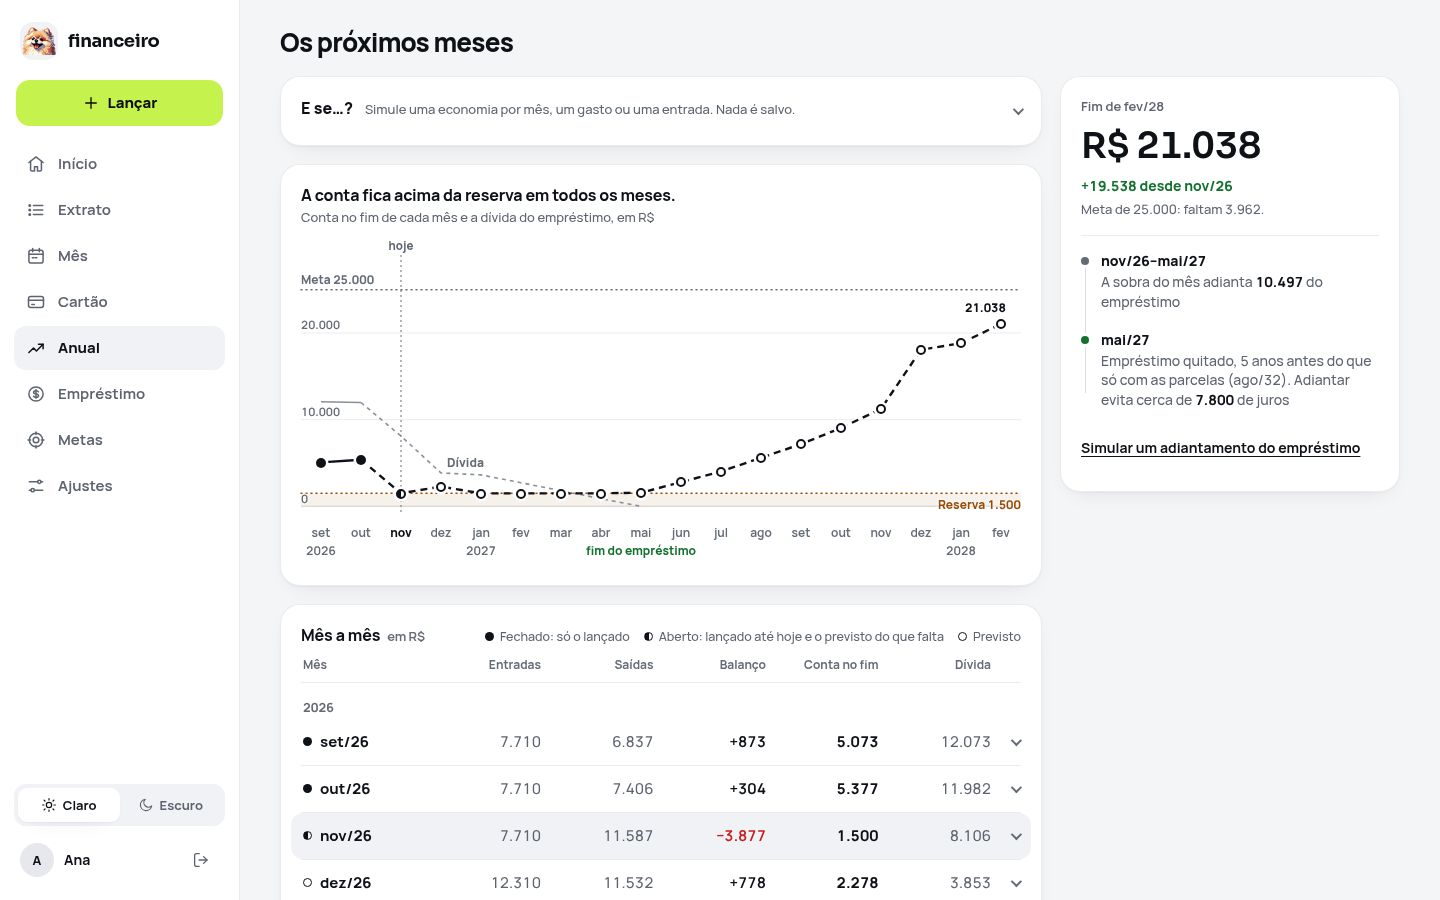
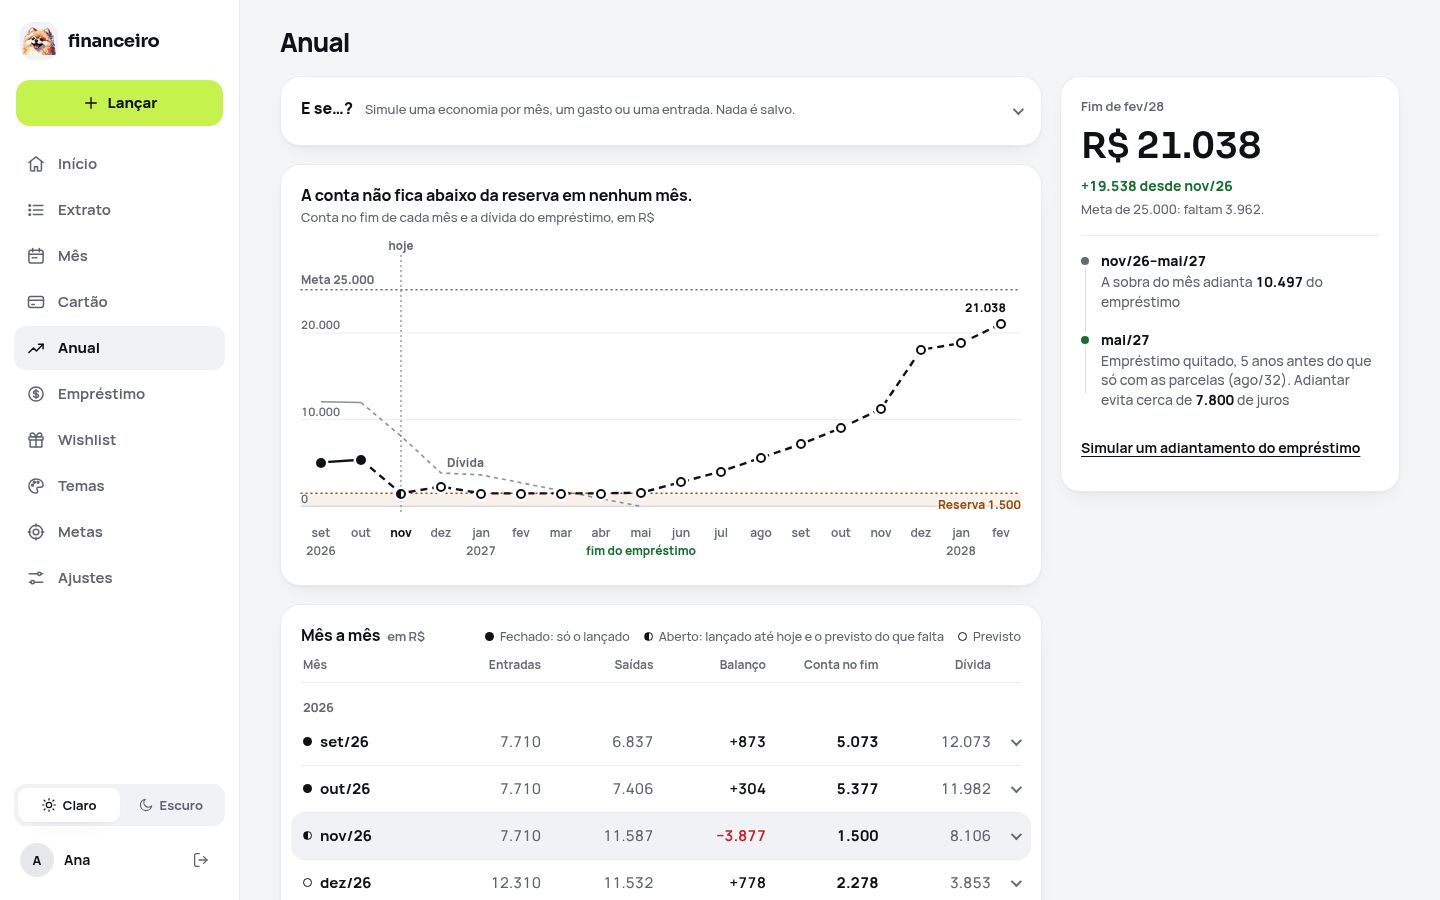
Versão 1.2.1: rótulos mais claros e previsão do fim do mês no Início e no Mês

diff --git a/public/assets/css/mes.css b/public/assets/css/mes.css
@@ -43,6 +43,7 @@ details.mes-ed > summary:hover::after, .mes-sub-titulo:hover::after,
 
 /* grupo (essenciais / não essenciais) */
 .mes-grupo + .mes-grupo { margin-top: 10px; }
+.mes-nota { margin: -4px 0 8px; color: var(--text-2); font-size: 13px; }
 .mes-sub-titulo {
     display: flex; align-items: center; gap: 10px;
     min-height: 40px; list-style: none;
@@ -136,6 +137,7 @@ details.mes-ed:target > summary { animation: mes-realce 1.6s ease-out 1; }   /* 
 .meta-top { display: flex; flex-direction: column; gap: 12px; }
 .meta-top-head { display: flex; flex-direction: column; gap: 2px; }
 .meta-top-head .rotulo { font-size: 13px; }
+.meta-renda-nota { display: block; font-size: 12px; font-weight: 500; }
 .meta-renda { font-family: var(--fn); font-size: 30px; font-weight: 600; letter-spacing: -0.03em; line-height: 1.1; }
 
 /* barra: como a renda foi usada (toque para ver as metas) */

diff --git a/public/assets/js/app.js b/public/assets/js/app.js
@@ -513,10 +513,18 @@
             setTimeout(function () { toastMsg.innerHTML = html; }, 120);
         }
     }
+    // link para uma linha dentro de um grupo recolhido do Mês: abre o grupo
+    function abrirGrupoDoLink() {
+        var alvo = location.hash.length > 1 ? document.getElementById(location.hash.slice(1)) : null;
+        var grupo = alvo ? alvo.closest('details.mes-sem-mov') : null;
+        if (grupo) { grupo.open = true; alvo.scrollIntoView({ block: 'center' }); }
+    }
     if (document.readyState === 'loading') {
         document.addEventListener('DOMContentLoaded', iniciar);
+        document.addEventListener('DOMContentLoaded', abrirGrupoDoLink);
     } else {
         iniciar();
+        abrirGrupoDoLink();
     }
     // voltar pelo histórico (bfcache) restaura o radio marcado sem disparar change
     window.addEventListener('pageshow', syncTodosQuando);

diff --git a/public/assets/css/style.css b/public/assets/css/style.css
@@ -728,6 +728,8 @@ details.dobra > summary:hover::after { border-color: var(--text); }
 .saldo.is-acima .saldo-medidor i { background: var(--cofre-ok); }
 .saldo-rod { display: flex; justify-content: space-between; gap: 12px; margin-top: 9px; color: var(--cofre-txt-2); font-size: 13px; white-space: normal; }
 .saldo-rod b { color: var(--cofre-txt); font-weight: 700; }
+.saldo-prev { margin-top: 8px; color: var(--cofre-txt-2); font-size: 13px; }
+.saldo-prev b { color: var(--cofre-txt); font-weight: 700; }
 .saldo-duas { display: grid; grid-template-columns: 1fr 1fr; gap: 8px; }
 .saldo-duas > div { padding: 10px 12px; border-radius: 14px; background: rgba(255, 255, 255, .06); }
 .saldo-duas small { display: block; color: var(--cofre-txt-2); font-size: 12.5px; font-weight: 650; }

diff --git a/public/assets/css/cartao.css b/public/assets/css/cartao.css
@@ -94,7 +94,7 @@
 .ct-parc-l1 { font-weight: 700; }
 .ct-parc-l1 span:first-child { overflow: hidden; text-overflow: ellipsis; white-space: nowrap; }
 .ct-parc .trilho { margin: 4px 0 2px; }
-.ct-parc-l3 { color: var(--text-2); font-size: 12.5px; }
+.ct-parc-l3 { flex-wrap: wrap; color: var(--text-2); font-size: 12.5px; }
 .ct-dados { display: grid; grid-template-columns: 1fr 1fr; gap: 10px 16px; margin-top: 4px; }
 .ct-dados dt { color: var(--text-2); font-size: 12.5px; font-weight: 600; }
 .ct-dados dd { font-weight: 750; }

diff --git a/src/Views/mes/index.php b/src/Views/mes/index.php
@@ -75,6 +75,11 @@ $sortDesc($diaEss, $valorDia);
 $sortDesc($diaNaoEss, $valorDia);
 $diaZerEss    = array_values(array_filter($diaZeradas, static fn($l) => $l['essencial']));
 $diaZerNaoEss = array_values(array_filter($diaZeradas, static fn($l) => !$l['essencial']));
+// zeradas com meta continuam no grupo (mostram a meta); as sem meta ficam recolhidas em "Sem movimento"
+$temMeta       = static fn(array $l): bool => (float) ($l['meta'] ?? 0.0) > 0.004;
+$comMetaEss    = array_values(array_filter($diaZerEss, $temMeta));
+$comMetaNaoEss = array_values(array_filter($diaZerNaoEss, $temMeta));
+$semMov        = array_values(array_filter($diaZeradas, static fn($l) => !$temMeta($l)));
 
 $totalEss    = array_sum(array_map($valorConta, $essContas)) + array_sum(array_map($valorDia, $diaEss));
 $totalNaoEss = array_sum(array_map($valorConta, $naoEssContas)) + array_sum(array_map($valorDia, $diaNaoEss));
@@ -319,7 +324,7 @@ $linhaLeitura = static function (array $l, float $v): void { ?>
     <div class="mes-grade">
     <div class="mes-col mes-esq">
 
-        <!-- resumo: o saldo no cartão escuro (o estado vem na etiqueta), entradas e saídas embaixo -->
+        <!-- resumo: o saldo no cartão escuro (o estado vem na etiqueta) e a previsão para o fim do mês -->
         <?php
         $txtConta  = num($emConta);
         $virgula   = strrpos($txtConta, ',');
@@ -329,18 +334,18 @@ $linhaLeitura = static function (array $l, float $v): void { ?>
         <section class="saldo mes-resumo <?= $emConta < -0.004 ? 'is-vermelho' : $nivel ?>" aria-labelledby="mes-res-t">
             <div class="saldo-l1"><h2 id="mes-res-t"><?= substr((string) $hoje, 0, 7) === substr($mes, 0, 7) ? 'Em conta hoje' : 'Conta no fim do mês' ?></h2><span class="saldo-estado num"><?= e($estadoTxt) ?></span></div>
             <p class="saldo-v num"><small>R$</small><?= e($virgula === false ? $txtConta : substr($txtConta, 0, $virgula)) ?><span><?= e($virgula === false ? '' : substr($txtConta, $virgula)) ?></span></p>
-            <div class="saldo-duas num">
-                <div><small>Entradas</small><b class="saldo-pos"><?= e(num($totalEntrou)) ?></b></div>
-                <div><small>Saídas</small><b class="saldo-neg"><?= e(num($totalSaidas)) ?></b></div>
-            </div>
+            <?php if ($estado === 'aberto' && isset($linha['fica_na_conta'])): ?>
+                <p class="saldo-prev num" data-previsao-fim>Previsão para o fim de <?= e(mesExtenso($mes)) ?>: <b><?= e(num((float) $linha['fica_na_conta'], 0)) ?></b></p>
+            <?php endif; ?>
         </section>
 
         <!-- entradas -->
         <section class="card mes-sec" id="entradas">
             <div class="card-head">
-                <h2 class="titulo">Entradas</h2>
+                <h2 class="titulo"><?= $estado === 'real' ? 'Entradas' : 'Entradas previstas' ?></h2>
                 <span class="card-acao num pos"><?= e(num($totalEntrou)) ?></span>
             </div>
+            <?php if ($estado !== 'real' && $consignado > 0.004): ?><p class="mes-nota num"><?= e(num($consignado)) ?> descontados em folha</p><?php endif; ?>
             <?php if ($editavel): ?>
                 <div class="mes-linhas"><?php foreach ($entradas as $l) { $linhaEntrada($l); } ?></div>
             <?php else: ?>
@@ -365,19 +370,28 @@ $linhaLeitura = static function (array $l, float $v): void { ?>
                     <div class="mes-linhas">
                         <?php foreach ($essContas as $l) { $linhaConta($l); } ?>
                         <?php foreach ($diaEss as $l) { $linhaDia($l); } ?>
-                        <?php foreach ($diaZerEss as $l) { $linhaDia($l); } ?>
+                        <?php foreach ($comMetaEss as $l) { $linhaDia($l); } ?>
                     </div>
                 </details>
 
                 <?php
                 $naoEss = array_merge($naoEssContas, $diaNaoEss);
                 usort($naoEss, static fn($a, $b) => ($b['grupo'] === 'Dia a dia' ? $valorDia($b) : $valorConta($b)) <=> ($a['grupo'] === 'Dia a dia' ? $valorDia($a) : $valorConta($a)));
-                $naoEss = array_merge($naoEss, $diaZerNaoEss);
+                $naoEss = array_merge($naoEss, $comMetaNaoEss);
                 if ($naoEss !== []): ?>
                     <details class="mes-grupo" open>
                         <summary class="mes-sub-titulo">Não essenciais <span class="num"><?= e(num($totalNaoEss, 0)) ?></span></summary>
                         <div class="mes-linhas">
                             <?php foreach ($naoEss as $l) { $l['grupo'] === 'Dia a dia' ? $linhaDia($l) : $linhaConta($l); } ?>
+                        </div>
+                    </details>
+                <?php endif; ?>
+
+                <?php if ($semMov !== []): ?>
+                    <details class="mes-grupo mes-sem-mov"<?= array_filter($semMov, $erroDe) !== [] ? ' open' : '' ?>>
+                        <summary class="mes-sub-titulo">Sem movimento <span class="num">(<?= count($semMov) ?>)</span></summary>
+                        <div class="mes-linhas">
+                            <?php foreach ($semMov as $l) { $linhaDia($l); } ?>
                         </div>
                     </details>
                 <?php endif; ?>

diff --git a/tests/run.php b/tests/run.php
@@ -134,6 +134,30 @@ foreach ($telas as [$path, $cls, $metodo, $marcador]) {
     }
 }
 
+// ---- 3b. textos da auditoria: rótulos que não enganam e a previsão igual à do Anual
+$pagina = static function (string $cls, string $metodo, string $path): string {
+    $_SERVER['REQUEST_URI'] = $path;
+    $_GET = [];
+    ob_start();
+    (new $cls())->$metodo();
+    return (string) ob_get_clean();
+};
+$htmlIni = $pagina(DashboardController::class, 'index', '/');
+$htmlMes = $pagina(MesController::class, 'index', '/mes');
+$htmlAno = $pagina(FuturoController::class, 'index', '/futuro');
+$htmlMeta = $pagina(MetaController::class, 'index', '/meta');
+$check('Metas não chama o disponível de renda', !str_contains($htmlMeta, 'Renda do mês') && str_contains($htmlMeta, 'Disponível no mês'));
+$check('Anual não diz "acima da reserva em todos os meses"', !str_contains($htmlAno, 'acima da reserva em todos'));
+$check('Início sem o selo "Acima da reserva"', !str_contains($htmlIni, 'Acima da reserva'));
+$mesPrevT = MesModel::referencia(date('Y-m-d'));
+$linhaPrevT = MotorFinanceiro::linhaDoMes($mesPrevT);
+if ($linhaPrevT !== null && $linhaPrevT['situacao'] !== 'REAL') {
+    $valPrevT = num((float) $linhaPrevT['fica_na_conta'], 0);
+    $tagPrev = 'data-previsao-fim>Previsão para o fim de ' . mesExtenso($mesPrevT) . ': <b>' . $valPrevT . '</b>';
+    $check('Início: previsão do fim do mês vem do mesmo plano do Anual', str_contains($htmlIni, $tagPrev) && str_contains($htmlAno, $valPrevT));
+    $check('Mês: previsão do fim do mês igual à do Início', str_contains($htmlMes, $tagPrev));
+}
+
 // ---- 4. meta: definir uma meta pinta a barra no mês (verde/vermelho), sem sujar o banco
 $mesMeta = null;
 $catMeta = null;
@@ -486,7 +510,7 @@ if ($catDia > 0 && count($prevMeses) >= 3) {
 }
 $htmlFu = $render(FuturoController::class, 'index', []);
 $check('anual: resumo, conclusão no título do gráfico, previsão tracejada e total por ano', str_contains($htmlFu, 'class="card fu-res"')
-    && str_contains($htmlFu, 'id="fu-graf-t">A conta fica') && str_contains($htmlFu, 'class="fu-linha is-prev"')
+    && str_contains($htmlFu, 'id="fu-graf-t">A conta ') && str_contains($htmlFu, 'class="fu-linha is-prev"')
     && str_contains($htmlFu, 'class="fu-cols fu-total num"') && !str_contains($htmlFu, 'fu-area'));
 $check('anual: o que mudou no mês, do maior efeito para o menor', $mu['2027-01-01'] === []
     && ($mu['2027-02-01'][0]['nome'] ?? '') === 'IPVA' && abs($mu['2027-02-01'][0]['efeito'] + 1200.0) < 0.01
@@ -670,9 +694,9 @@ $check('dados do empréstimo: recusa parcela zero, número de parcelas quebrado 
 $check('dados do empréstimo: Ajustes não grava mais esses campos', array_diff(AjusteModel::DO_EMPRESTIMO, AjusteModel::EDITAVEIS) === []
     && AjustesController::lerValores(['juros_mes' => '5'], array_diff(AjusteModel::EDITAVEIS, AjusteModel::DO_EMPRESTIMO))['valores'] === []);
 $htmlAj = $render(AjustesController::class, 'index', []);
-$check('dados do empréstimo: saíram de Ajustes, que avisa onde estão', !str_contains($htmlAj, 'valores[juros_mes]') && !str_contains($htmlAj, 'valores[parcela_mensal]')
+$check('dados do empréstimo: saíram de Ajustes', !str_contains($htmlAj, 'valores[juros_mes]') && !str_contains($htmlAj, 'valores[parcela_mensal]')
     && !str_contains($htmlAj, 'valores[n_parcelas]') && !str_contains($htmlAj, 'valores[consignado_inicio]') && !str_contains($htmlAj, 'valores[recebido_emprestimo]')
-    && str_contains($htmlAj, 'valores[reserva_minima]') && str_contains($htmlAj, 'valores[saldo_ini]') && str_contains($htmlAj, '/emprestimo?dados=1#emp-dados'));
+    && str_contains($htmlAj, 'valores[reserva_minima]') && str_contains($htmlAj, 'valores[saldo_ini]') && !str_contains($htmlAj, 'agora ficam'));
 $check('dados do empréstimo: estão na aba, mesmo com a dívida quitada', str_contains($htmlEmp, 'action="/emprestimo/dados"') && str_contains($htmlEmp, 'valores[juros_mes]') && str_contains($htmlEmp, 'valores[saldo_devedor]') && str_contains($htmlEmp, 'valores[saldo_devedor_mes]')
     && str_contains($htmlEmp, 'valores[parcela_mensal]') && str_contains($htmlEmp, 'valores[n_parcelas]') && str_contains($htmlEmp, 'valores[consignado_inicio]') && str_contains($htmlEmp, 'valores[recebido_emprestimo]'));
 $dadosSaldo = array_replace_recursive($dadosEmp, ['aj' => ['saldo_devedor' => 500.0, 'saldo_devedor_mes' => 203002.0]]);

diff --git a/src/Views/dashboard/index.php b/src/Views/dashboard/index.php
@@ -40,7 +40,7 @@ $diaSem    = $diasSem[(int) date('w', $tsHoje)];
 $dataLonga = mb_strtoupper(mb_substr($diaSem, 0, 1)) . mb_substr($diaSem, 1) . ', ' . (int) date('j', $tsHoje) . ' de ' . mesExtenso($hoje);
 
 // cartão do saldo: estado e barra até a reserva
-$estadoSaldo = $vermelho ? 'No vermelho' : ($abaixo ? 'Abaixo da reserva' : 'Acima da reserva');
+$estadoSaldo = $vermelho ? 'No vermelho' : ($abaixo ? 'Abaixo da reserva' : '');
 $clsSaldo    = $vermelho ? 'is-vermelho' : ($abaixo ? 'is-abaixo' : 'is-acima');
 $pReserva    = $reserva > 0.004 ? max(0.0, min(1.0, $conta / $reserva)) * 100 : ($conta >= 0 ? 100.0 : 0.0);
 $txtConta    = num($conta);
@@ -84,7 +84,7 @@ $quandoFoi   = static function (string $data) use ($hoje): string {
             <div class="saldo-l1">
                 <h2 id="saldo-t">Em conta hoje</h2>
                 <button type="button" class="saldo-olho" data-ocultar aria-pressed="false" aria-label="esconder valores"><?= svgIcon('eye', 18, 'olho-aberto') ?><?= svgIcon('eye-off', 18, 'olho-fechado') ?></button>
-                <span class="saldo-estado"><?= e($estadoSaldo) ?></span>
+                <?php if ($estadoSaldo !== ''): ?><span class="saldo-estado"><?= e($estadoSaldo) ?></span><?php endif; ?>
             </div>
             <p class="saldo-v num"><small>R$</small><?= e($contaInt) ?><span><?= e($contaCent) ?></span></p>
             <div class="saldo-medidor" aria-hidden="true"><i style="--p:<?= e(number_format($pReserva, 1, '.', '')) ?>%"></i></div>
@@ -92,6 +92,9 @@ $quandoFoi   = static function (string $data) use ($hoje): string {
                 <span><?php if ($vermelho): ?>Faltam <b><?= e(num(abs($conta))) ?></b> para zerar<?php elseif ($abaixo): ?>Faltam <b><?= e(num(abs($dif))) ?></b> para a reserva<?php else: ?><b><?= e(num($dif)) ?></b> acima da reserva<?php endif; ?></span>
                 <span>Reserva <b><?= e(num($reserva, 0)) ?></b></span>
             </p>
+            <?php if ($previsaoFim !== null): ?>
+                <p class="saldo-prev num" data-previsao-fim>Previsão para o fim de <?= e(mesExtenso($mesPrevisao)) ?>: <b><?= e(num($previsaoFim, 0)) ?></b></p>
+            <?php endif; ?>
         </section>
 
         <!-- o mês em três linhas; o detalhe fica dobrado -->
@@ -207,7 +210,7 @@ $quandoFoi   = static function (string $data) use ($hoje): string {
                         <li>
                             <a class="lista-i" href="/lancamentos/<?= (int) $r['id'] ?>/editar?volta=%2F">
                                 <?= iconeCategoria((int) $r['categoria_id'], (string) $r['categoria_nome'], (string) ($r['grupo'] ?? ''), 40) ?>
-                                <span class="lista-n"><b><?= e($desc !== '' ? $desc : nomeCurto($cat)) ?></b><small><?= e(nomeCurto($cat)) ?></small></span>
+                                <span class="lista-n"><b><?= e($desc !== '' ? $desc : nomeCurto($cat)) ?></b><?php if ($desc !== '' && mb_strtolower($desc) !== mb_strtolower(nomeCurto($cat))): ?><small><?= e(nomeCurto($cat)) ?></small><?php endif; ?></span>
                                 <span class="lista-v"><b class="num <?= $cls ?>"><?= e($txt) ?></b><small><?= e($quandoFoi((string) $r['data'])) ?></small></span>
                             </a>
                         </li>

diff --git a/src/Views/lancamentos/index.php b/src/Views/lancamentos/index.php
@@ -210,7 +210,7 @@ $catAtual = $categoria !== null ? (int) $categoria['id'] : 0;
                             <?php $desc = trim((string) $r['descricao']); $rot = $desc !== '' ? $desc : nomeCurto($cat); ?>
                             <li><a class="lista-i ex-linha" href="/lancamentos/<?= (int) $r['id'] ?>/editar?volta=<?= e($voltaEnc) ?>"<?= $i === $limite - 60 && $i > 0 ? ' id="ex-r' . $i . '"' : '' ?>>
                                 <?= iconeCategoria((int) $r['categoria_id'], (string) $r['categoria_nome'], (string) $r['grupo'], 40) ?>
-                                <span class="lista-n"><b><?= e($rot) ?></b><small><?= e(nomeCurto($cat)) ?><?php if (!$agrupado): ?>, <?= e($semana[(int) date('w', strtotime($r['data']))] . ' ' . diaMes($r['data'])) ?><?php endif; ?></small></span>
+                                <span class="lista-n"><b><?= e($rot) ?></b><?php $mesmoNome = mb_strtolower($rot) === mb_strtolower(nomeCurto($cat)); $quando = $agrupado ? '' : $semana[(int) date('w', strtotime($r['data']))] . ' ' . diaMes($r['data']); $sub = implode(', ', array_filter([$mesmoNome ? '' : nomeCurto($cat), $quando])); ?><?php if ($sub !== ''): ?><small><?= e($sub) ?></small><?php endif; ?></span>
                                 <span class="lista-v"><b class="num <?= $cls ?>"><?= e($txt) ?></b><?php if ($r['data'] > $hoje): ?><small class="ex-agendado">agendado</small><?php endif; ?></span>
                             </a></li>
                             <?php $i++; ?>

diff --git a/src/Views/partials/mes_nav.php b/src/Views/partials/mes_nav.php
@@ -5,7 +5,7 @@
  *                                      'href' => '/mes?mes=', 'sufixo' => '#contas']);
  * Variáveis: $mes (AAAA-MM-01), $meses (linhas {mes, situacao} em ordem), $href (prefixo do link,
  * recebe o mês no fim), $sufixo (opcional, ex. '#contas'), $hoje (opcional, Y-m-d),
- * $anual (opcional: true põe "Visão anual" no fim do painel; no celular é o caminho para o Anual).
+ * $anual (opcional: true põe "Anual" no fim do painel; no celular é o caminho para o Anual).
  * O mês por extenso é o botão de um seletor (details.menu, funciona sem JS): abre um painel com
  * todos os meses por ano, cada um com o ponto do estado. Setas redondas à direita.
  * O h1 da tela fica escondido para leitor de tela (o botão mostra o mesmo texto).
@@ -70,7 +70,7 @@ foreach ($lista as $k) {
                 <span class="leg-previsto"><i class="ponto-estado"></i>Previsto</span>
             </p>
             <?php if ($anual): ?>
-                <a class="mes-picker-anual" href="/futuro"><?= svgIcon('trend', 18) ?><span>Visão anual</span><?= svgIcon('chevron', 16) ?></a>
+                <a class="mes-picker-anual" href="/futuro"><?= svgIcon('trend', 18) ?><span>Anual</span><?= svgIcon('chevron', 16) ?></a>
             <?php endif; ?>
         </div>
     </details>

diff --git a/src/Views/cartao/index.php b/src/Views/cartao/index.php
@@ -166,7 +166,7 @@ $hrefLancar = '/lancar?pagou=cartao&volta=' . rawurlencode('/cartao');
                             <?= iconeCategoria((int) ($c['categoria_id'] ?? 0), (string) ($c['categoria_nome'] ?? $c['descricao']), (string) ($c['categoria_grupo'] ?? ''), 40) ?>
                             <span class="ct-parc-l1"><span><?= e($c['descricao']) ?></span><span class="num"><?= e(num((float) $pc['valor'])) ?></span></span>
                             <span class="trilho" aria-hidden="true"><i style="--w:<?= (int) round(($pc['agora'] - 1) / $pc['n'] * 100) ?>%"></i></span>
-                            <span class="ct-parc-l3 num"><span><?= $pc['comeca'] > $aberta ? 'começa em ' . e(monthLabel($pc['comeca'])) : $pc['agora'] . ' de ' . $pc['n'] . ' · faltam ' . $pc['faltam'] ?></span><span>última em <?= e(monthLabel($pc['ultima'])) ?></span></span>
+                            <span class="ct-parc-l3 num"><span><?= $pc['comeca'] > $aberta ? 'começa em ' . e(monthLabel($pc['comeca'])) : $pc['agora'] . ' de ' . $pc['n'] . ' · ' . $pc['faltam'] . ' a pagar, contando a aberta' ?></span><span>última em <?= e(monthLabel($pc['ultima'])) ?></span></span>
                         </a></li>
                     <?php endforeach; ?>
                 </ul>

diff --git a/src/Views/meta/index.php b/src/Views/meta/index.php
@@ -91,12 +91,12 @@ $temAdd = $addEss !== [] || $addNao !== [];
     <!-- orçamento do mês: dê função a cada real -->
     <section class="card meta-top">
         <div class="meta-top-head">
-            <span class="rotulo">Renda do mês</span>
+            <span class="rotulo">Disponível no mês <small class="meta-renda-nota">entradas + sobra anterior</small></span>
             <span class="meta-renda num"><?= e(num($renda, 0)) ?></span>
         </div>
 
         <?php if ($temBar): ?>
-            <button type="button" class="meta-aloc" data-meta-aloc aria-expanded="false" aria-label="Como a renda foi usada. Toque para ver cada meta.">
+            <button type="button" class="meta-aloc" data-meta-aloc aria-expanded="false" aria-label="Como o disponível foi usado. Toque para ver cada meta.">
                 <span class="meta-aloc-seg seg-metas" data-seg-metas style="--w:<?= $pct($pctMetas) ?>"></span>
                 <span class="meta-aloc-seg seg-gasto" data-seg-gasto style="--w:<?= $pct($pctGasto) ?>"></span>
                 <span class="meta-aloc-seg seg-conta" data-seg-conta style="--w:<?= $pct($pctConta) ?>"></span>

diff --git a/src/Controllers/DashboardController.php b/src/Controllers/DashboardController.php
@@ -53,7 +53,7 @@ final class DashboardController
             : LancamentoModel::saldoCalculado($saldoIni, $hoje);
 
         $painel = self::painel($matriz[$mesRef] ?? null, $mesRef, $estadoRef);
-        $ultimos = LancamentoModel::listar($mesRef, ['limite' => 6]);
+        $ultimos = LancamentoModel::listar($mesRef, ['limite' => 3]);
 
         // meses anteriores ao calendário ainda abertos: lembrete de fechar
         $alertas = [];
@@ -79,6 +79,8 @@ final class DashboardController
             'mesCal'         => $mesCal,
             'estadoRef'      => $estadoRef,
             'reserva'        => $reserva,
+            'previsaoFim'    => $linhaRef['situacao'] !== 'REAL' ? (float) $linhaRef['fica_na_conta'] : null,
+            'mesPrevisao'    => $mesRef,
             'conta'          => $conta,
             'conf'           => $conf,
             'conferirAberto' => $conferirAberto || $conferirErro !== null,
